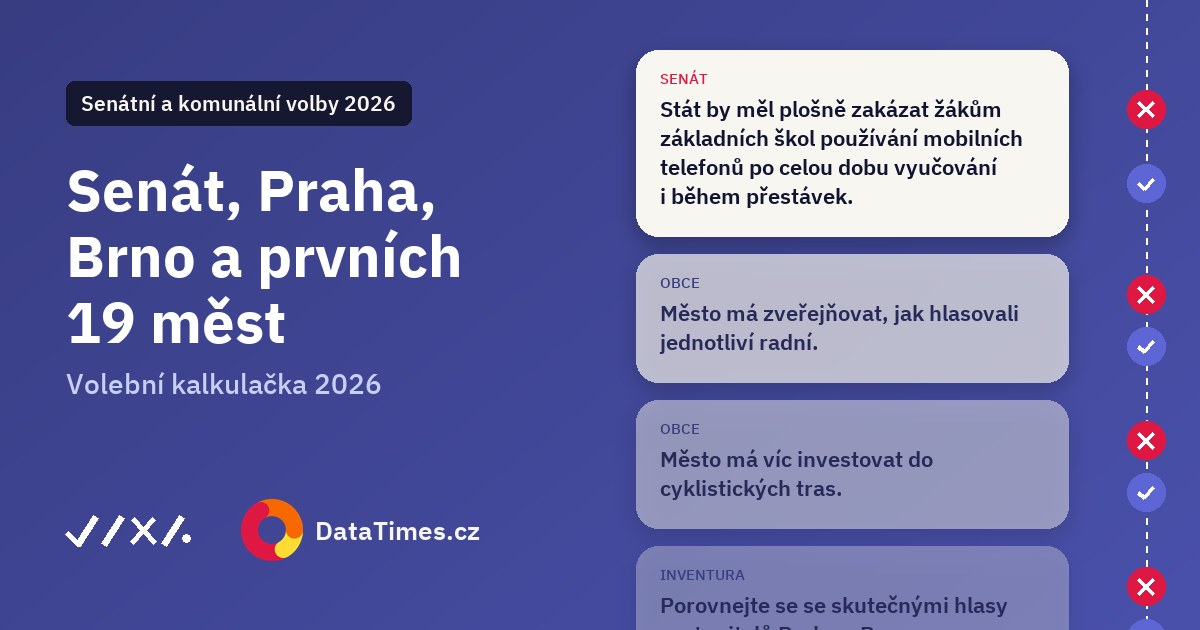
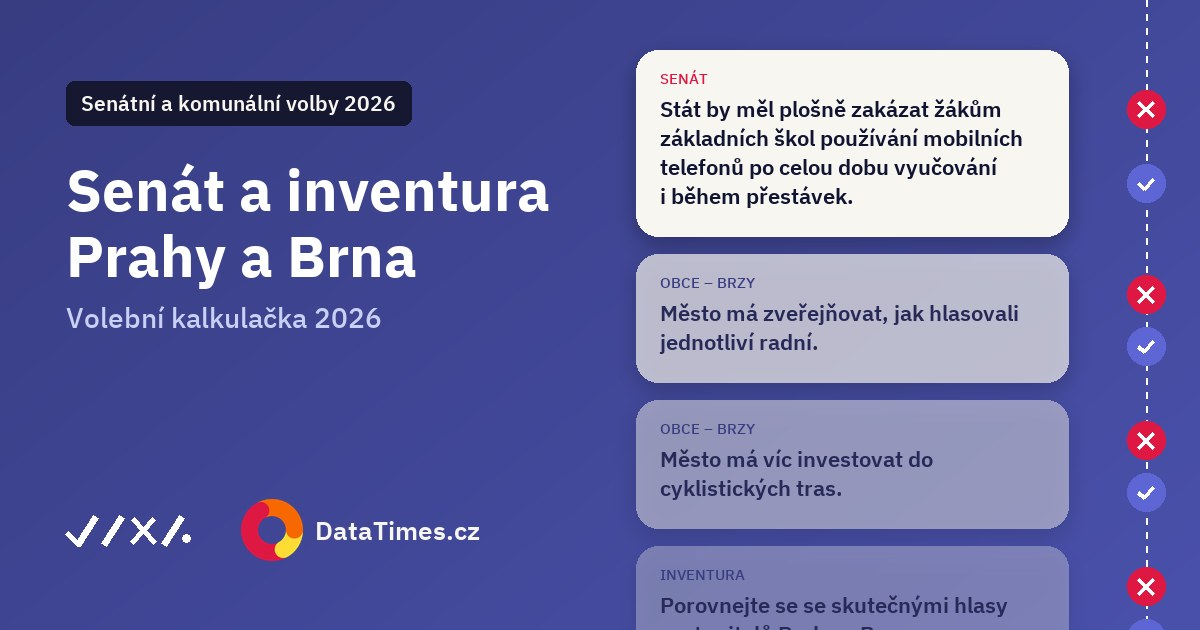
content(volby): Volební kalkulačka 2026 – bez měst, komunální kalkulačka zmíněna jako připravovaná; nový cover

diff --git a/apps/web/app/clanek/_articles/volby-cr-2026-10-04-volebni-kalkulacka-2026/index.md b/apps/web/app/clanek/_articles/volby-cr-2026-10-04-volebni-kalkulacka-2026/index.md
@@ -1,9 +1,9 @@
 ---
-title: "Volební kalkulačka 2026: Senát, inventura Prahy a Brna a prvních 19 měst"
+title: "Volební kalkulačka 2026: Senát a inventura hlasování v Praze a Brně"
 date: "2026-10-04"
 time: "00:15"
 author: "Kateřina Mahdalová & Michal Škop"
-excerpt: "Senátní kalkulačka běží pro 25 z 27 obvodů, inventura ukazuje, jak doopravdy hlasovali zastupitelé Prahy a Brna, a spouštíme kalkulačky pro prvních 19 měst. Všechny si můžete vyplnit přímo v tomto článku."
+excerpt: "Senátní kalkulačka běží pro 25 z 27 obvodů, inventura ukazuje, jak doopravdy hlasovali zastupitelé Prahy a Brna, a brzy nasadíme i kalkulačku pro komunální volby. Všechny si můžete vyplnit přímo v tomto článku."
 coverImage: "images/cover.jpg"
 ogImage: "images/cover-og.jpg"
 filter: []
@@ -11,7 +11,7 @@ tags: ["volby", "volby 2026", "komunální volby 2026", "senátní volby 2026", 
 promoted: 1
 ---
 
-Do voleb zbývá necelý týden. Komunální a senátní volby se konají v pátek 9. a v sobotu 10. října, případné druhé kolo senátních voleb o týden později, 16. a 17. října. Volební kalkulačka, kterou připravuje spolek KohoVolit.eu ve spolupráci s DataTimes.cz a s politickými geografy z Přírodovědecké fakulty Univerzity Karlovy, má letos tři podoby: senátní, komunální pro jednotlivá města a inventuru hlasování v zastupitelstvech Prahy a Brna.
+Do voleb zbývá necelý týden. Komunální a senátní volby se konají v pátek 9. a v sobotu 10. října, případné druhé kolo senátních voleb o týden později, 16. a 17. října. Volební kalkulačka, kterou připravuje spolek KohoVolit.eu ve spolupráci s DataTimes.cz a s politickými geografy z Přírodovědecké fakulty Univerzity Karlovy, má letos tři podoby: senátní, inventuru hlasování v zastupitelstvech Prahy a Brna a komunální pro jednotlivá města, kterou nasadíme v nejbližších dnech.
 
 Všechny si můžete vyplnit přímo tady v článku, nebo na webu [volebnikalkulacka.cz](https://www.volebnikalkulacka.cz).
 
@@ -23,11 +23,9 @@ Nejdřív vyberte svůj obvod:
 
 <iframe src="https://www.volebnikalkulacka.cz/volby/senatni-2026" title="Volební kalkulačka – senátní volby 2026" width="100%" height="820px" frameBorder="0"></iframe>
 
-## Komunální volby: prvních 19 měst
+## Komunální volby: kalkulačku brzy nasadíme
 
-Kalkulačky pro komunální volby vznikají zvlášť pro každé město. Kromě otázek společných pro všechna města má každé město i vlastní místní otázky – k bydlení, dopravě, parkování, městským bytům nebo plánovaným stavbám. Dotazníky dostaly kandidující strany a hnutí ve více než 70 městech, teď spouštíme prvních 19 z nich. Další města budeme přidávat, jakmile se sejdou odpovědi. Strany, které dotazník nevyplní, se v kalkulačce zobrazí bez odpovědí.
-
-<iframe src="https://www.volebnikalkulacka.cz/" title="Volební kalkulačka – komunální volby 2026" width="100%" height="820px" frameBorder="0"></iframe>
+Nasadíme i Volební kalkulačku pro komunální volby. Vzniká zvlášť pro každé město: kromě otázek společných pro všechna města má každé město i vlastní místní otázky – k bydlení, dopravě, parkování, městským bytům nebo plánovaným stavbám. Dotazníky dostaly kandidující strany a hnutí ve více než 70 městech. Strany, které dotazník nevyplní, se v kalkulačce zobrazí bez odpovědí. Jakmile kalkulačku spustíme, najdete ji na [volebnikalkulacka.cz](https://www.volebnikalkulacka.cz) i v tomto článku.
 
 <SupportBanner />
 
